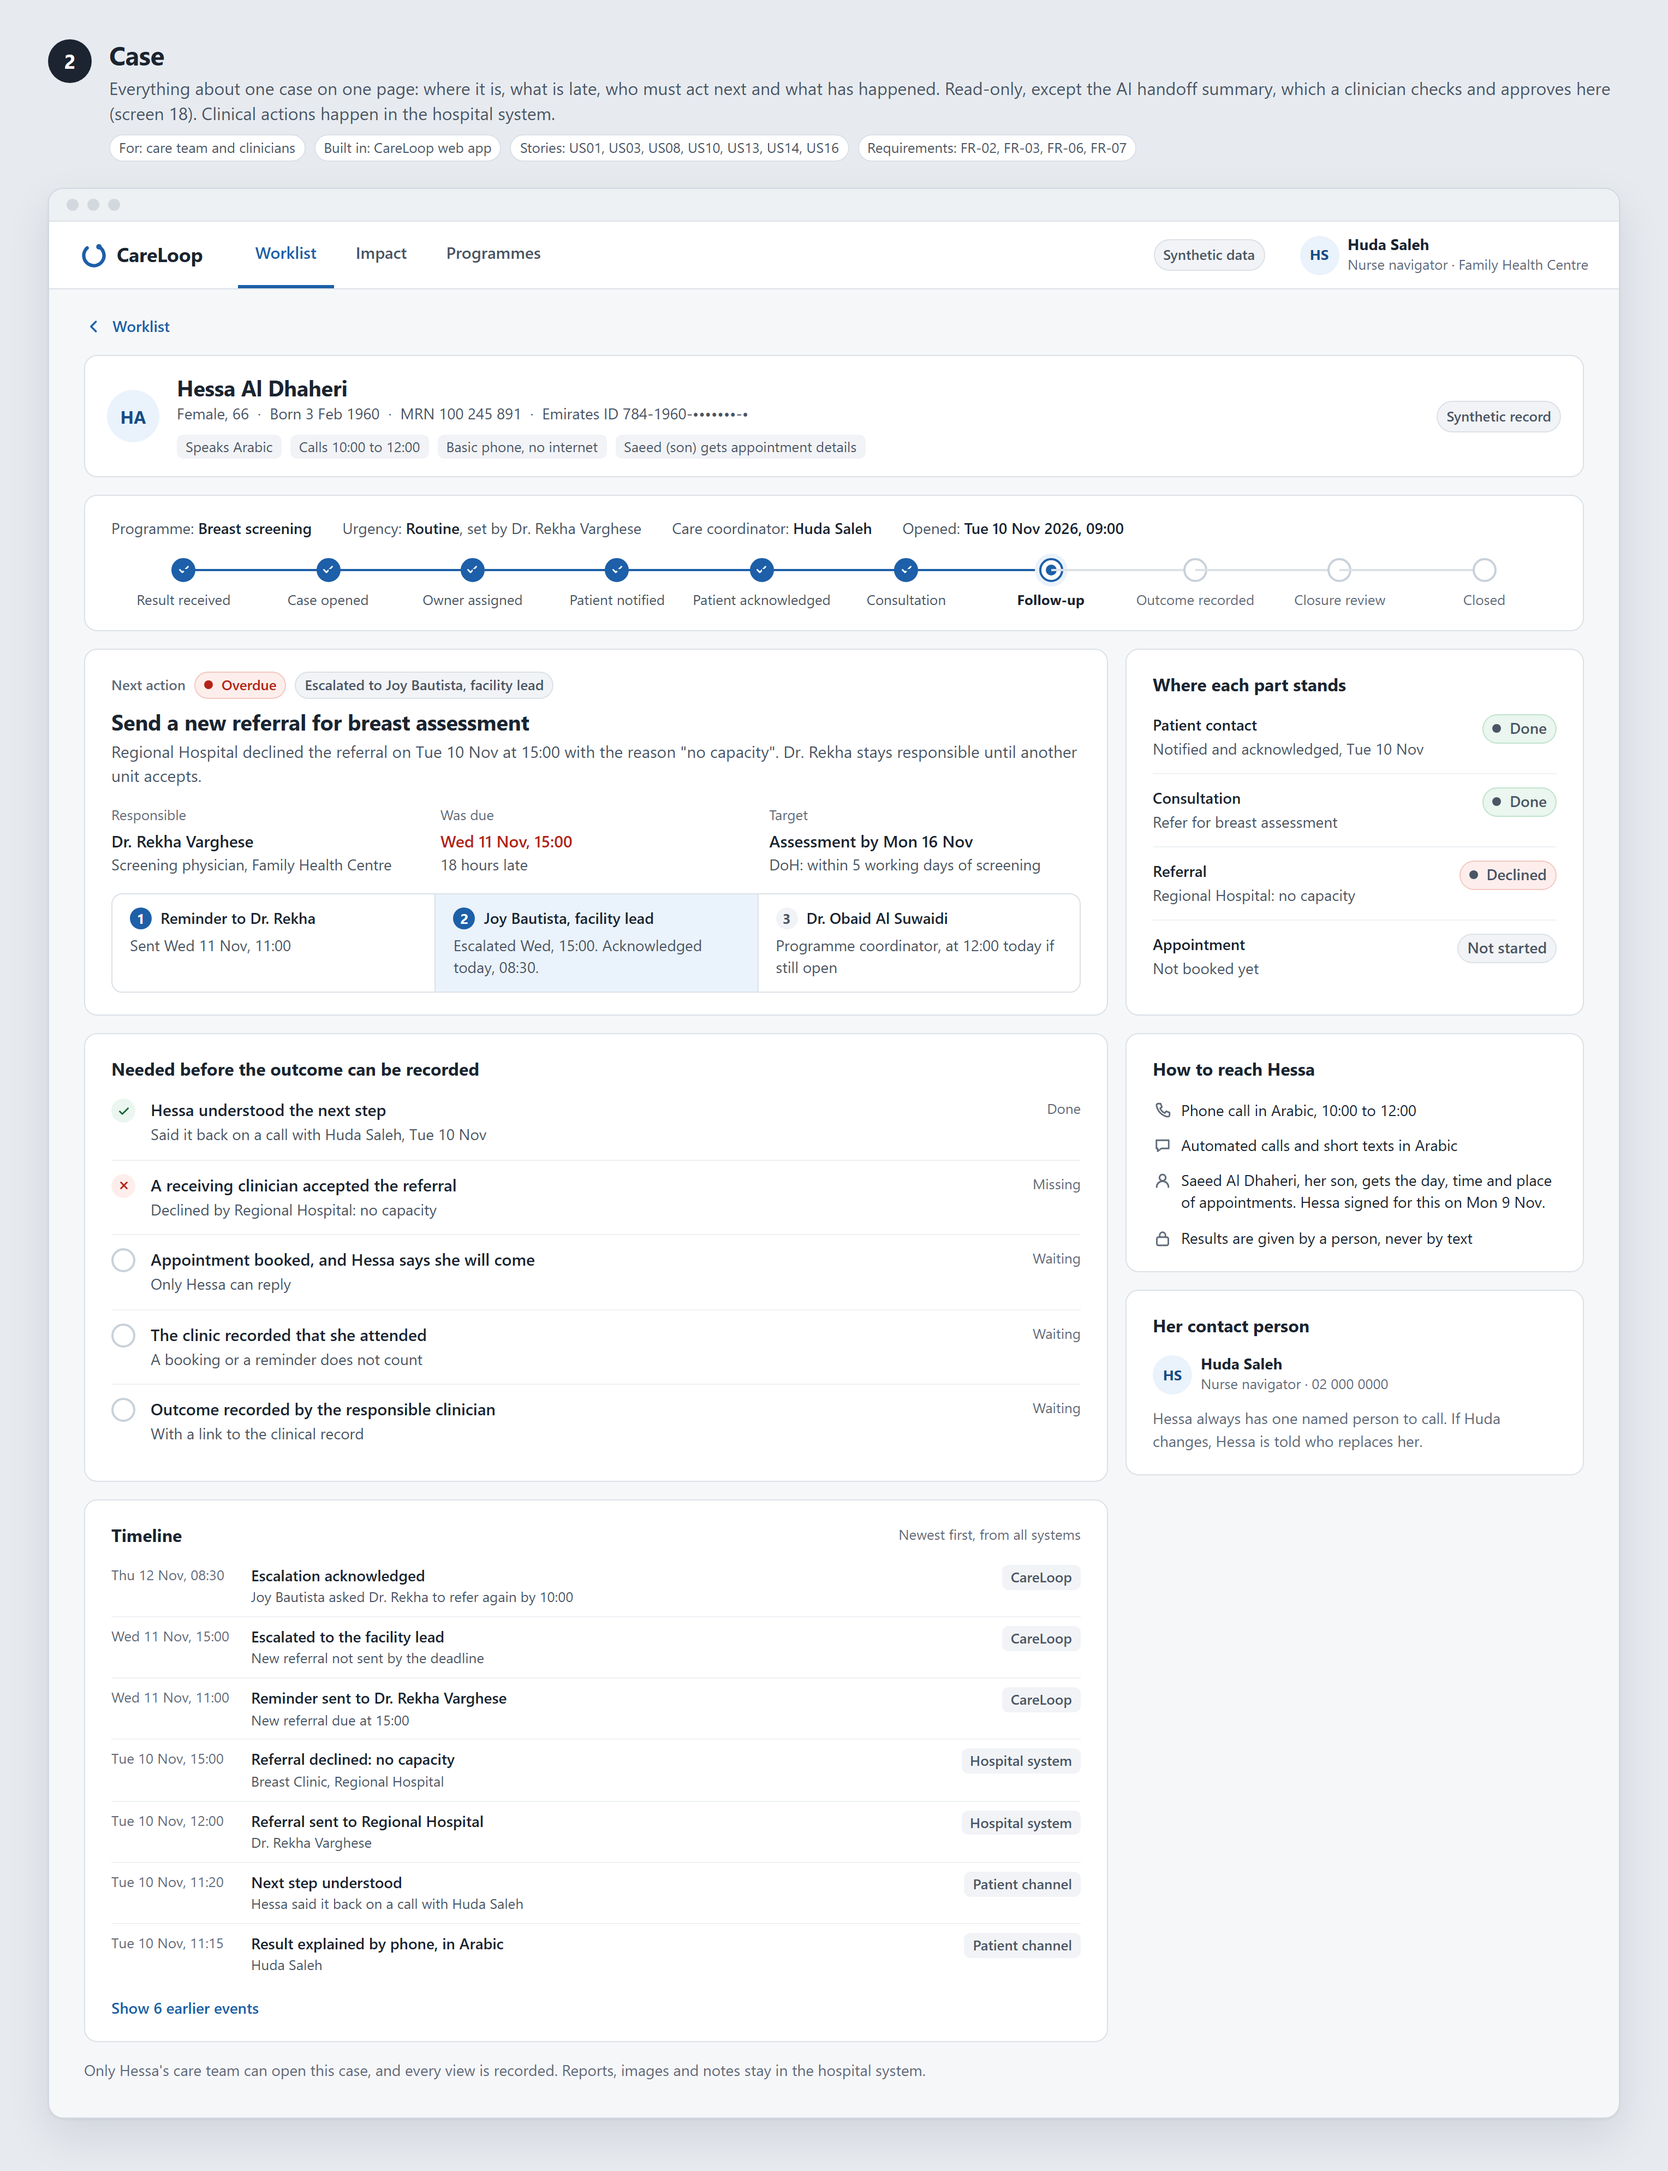
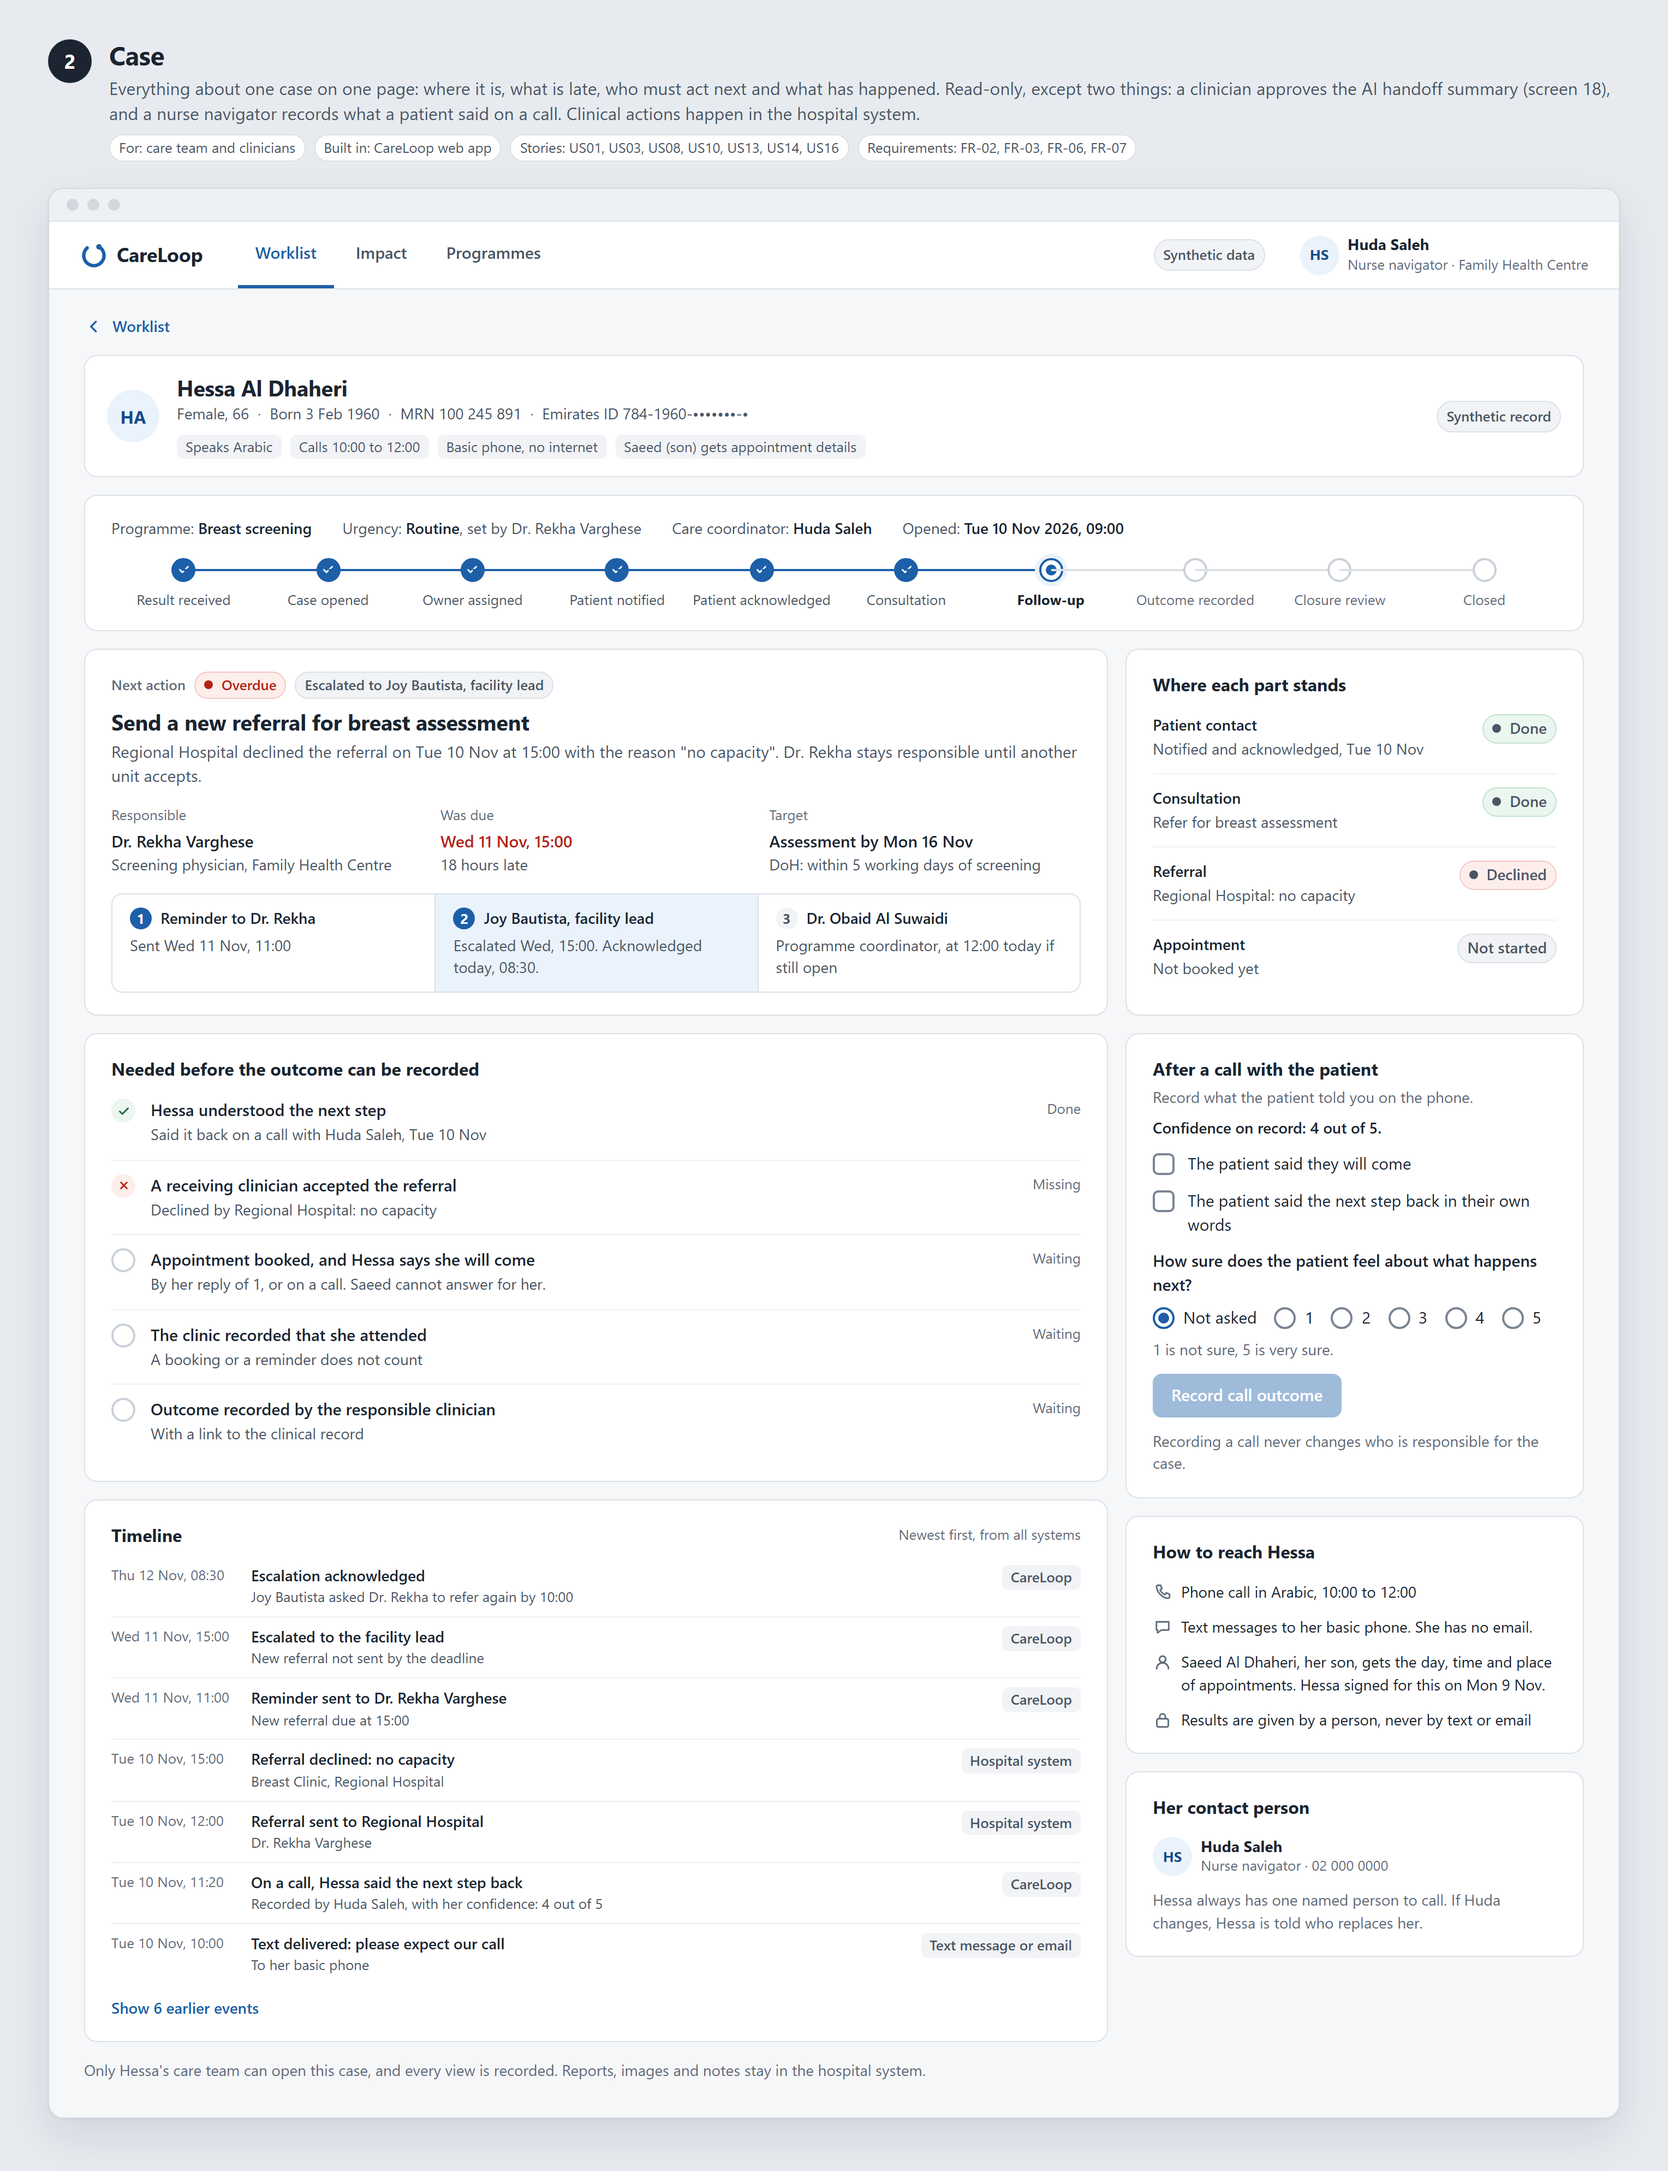
Add the call outcome card to the case screen (P21)
After a call, the nurse navigator records that the patient will come, that they said the
next step back, and how sure they feel from 1 to 5, with the labels and order of
CallOutcomeCard (decision 30). The timeline names its sources as CareLoop, Hospital system,
or Text message or email, and the nurse's call shows as CareLoop.

diff --git a/docs/ui-design/README.md b/docs/ui-design/README.md
@@ -3,7 +3,7 @@
 One flow, 22 screens and a guide to who sees what, for CareLoop, ready to build. Together they cover user stories US01 to US16 and every point of Challenge 05, Closing the Screening-to-Care Loop. Every person, number and facility shown is invented.
 
 - Screens 1 to 13 are grouped by the component that builds them: 1 to 4 in the CareLoop web app, 5 to 8 in the HIS simulator, 9 to 12 in the SMS and email simulator, and 13 across all of them.
-- CareLoop reaches patients, caregivers and staff by text message and email only; there is no patient app or portal (decisions 21 to 30 in the [gap analysis](../ui-design-gap-analysis.md), C22). Screen 10 is the patient's email.
+- CareLoop reaches patients, caregivers and staff by text message and email only; there is no patient app or portal (decisions 21 to 30 in the [gap analysis](../ui-design-gap-analysis.md), C22). Screen 10 is the patient's email, and a nurse navigator records what a patient says on a call on screen 2.
 - Screen 14 is the guide to who sees what.
 - Screens 15 to 23 follow one patient, Hessa Al Dhaheri, from her first visit to the all clear. Screens 22 and 23 come after the screening case closes: they are the target design, not part of the hackathon build.
 - For the hackathon, only CareLoop's own screens and the patient's phone are shown. Steps in the hospital system are simulated ([What the judges see](#what-the-judges-see)).
@@ -173,10 +173,12 @@ Hessa's journey:
 
 ![Case](02-case.png)
 
-- Read-only, except the AI handoff summary, which a clinician checks and approves from here (screen 18, C9). Reads `GET /cases/{id}` and `GET /cases/{id}/timeline`. Only the patient's care team can open it, and every view is logged (C4). Reports, images and notes are links into the hospital system, never copies.
+- Read-only, except two things: a clinician checks and approves the AI handoff summary from here (screen 18, C9), and a nurse navigator records what a patient said on a call (decision 30). Reads `GET /cases/{id}` and `GET /cases/{id}/timeline`. Only the patient's care team can open it, and every view is logged (C4). Reports, images and notes are links into the hospital system, never copies.
 - The next action shows its escalation ladder and who has acknowledged it (C15).
 - The checklist shows what must happen before the next stage. Missing evidence blocks progress.
-- The four tracks (notification, consultation, referral and appointment) each show their own status. Each timeline entry names its source system, which needs C3.
+- The four tracks (notification, consultation, referral and appointment) each show their own status. Each timeline entry names where it came from: CareLoop, the hospital system, or a text message or email (C3). What a nurse records after a call shows as CareLoop, with her name.
+- "After a call with the patient" is shown to nurse navigators only. After a call, the nurse ticks that the patient said they will come (`NotificationUpdated/Acknowledged`) and that they said the next step back in their own words (`/Understood`), and chooses how sure the patient feels, from 1 (not sure) to 5 (very sure), or "Not asked" (`/ConfidenceRated`). "Record call outcome" sends `POST /cases/{caseId}/call-outcome` and stays off until she ticks something or chooses a rating. The card shows the confidence on record, and recording never changes who is responsible.
+- This card is the only way understanding and the rating reach CareLoop: a reply by text or email can only say "I will come" or ask for a call (decisions 23 and 24).
 
 ### 3. Impact
 
